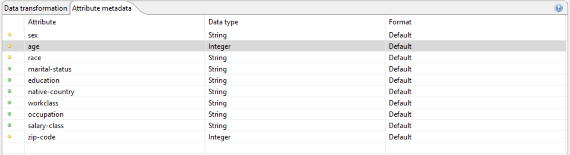
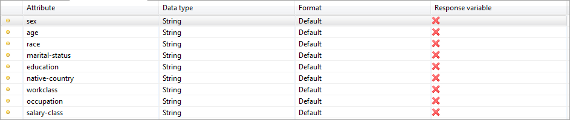
Some updates

diff --git a/help/v3.7.0/utility/quality.html b/help/v3.7.0/utility/quality.html
@@ -5,48 +5,21 @@
     <p>The view at the top, shows attribute-level quality, i.e. quality estimates that relate to individual
        quasi-identifiers. The view at the bottom, shows data-level quality, i.e. quality estimates for the
        overall set of quasi-identifiers.</p>
-    <img src="/help/v3.7.0/img/utility/quality.png" alt="Quality models" width="579" height="243" />
+    <img src="/help/v3.7.0/img/utility/quality.png" alt="Quality models" width="579" height="261" />
     <p>Note that not all quality measures are necessarily supported for all attributes or datasets. If a quality measure
        could not be evaluated for an attribute, the result is displayed as "N/A" in the upper table. As a consequence,
        this attribute has also been ignored when calculating data-level quality using the same model.</p>
     <p>The following attribute-level quality models are currently implemented:</p>
 	<ol>
-	    <li><em>Precision</em>: A model that captures the generalization intensity of attribute values.
-	                            For details see: Sweeney, L.: Achieving k-anonymity privacy protection using generalization and suppression
- 								J. Uncertain. Fuzz. Knowl. Sys. 10 (5), p. 571-588 (2002).</li>
-        <li><em>Granularity</em>: A model that captures the granularity of data. 
-                                  For details see: Iyengar, V.: Transforming data to satisfy privacy constraints. 
-                                  Proc. Int. Conf. Knowl. Disc. Data Mining, p. 279-288 (2002).</li>
-        <li><em>Non-Uniform Entropy</em>: A model that captures differences in the distributions of attribute values.
-        								  For details see: Prasser, F., Bild, R., Kuhn, K.A.
-        								  A Generic Method for Assessing the Quality of De-Identified Health Data.
-                                          Proc. Med. Inf. Europe (2016). and 
-                                          De Waal, A., Willenborg, L.: 
-                                          Information loss through global recoding and local suppression 
-                                          Netherlands Off. Stat., vol. 14, p. 17-20 (1999).</li>
+	    <li><em>Precision</em>: A model that captures the generalization intensity of attribute values. For details see: Sweeney, L.: Achieving k-anonymity privacy protection using generalization and suppression. J. Uncertain. Fuzz. Knowl. Sys. 10 (5), p. 571-588 (2002).</li>
+        <li><em>Granularity</em>: A model that captures the granularity of data. For details see: Iyengar, V.: Transforming data to satisfy privacy constraints. Proc. Int. Conf. Knowl. Disc. Data Mining, p. 279-288 (2002).</li>
+        <li><em>Non-Uniform Entropy</em>: A model that captures differences in the distributions of attribute values. For details see: Prasser, F., Bild, R., Kuhn, K.A.: A Generic Method for Assessing the Quality of De-Identified Health Data. Proc. Med. Inf. Europe (2016). and  De Waal, A., Willenborg, L.:  Information loss through global recoding and local suppression. Netherlands Off. Stat., vol. 14, p. 17-20 (1999).</li>
 	</ol>
 	<p>In addition, the following dataset-level quality models are available:</p>
 	<ol>
-	    <li><em>Average cell size</em>: A model that captures the average size of groups of indistinguishable records.
-	                                    For details see: LeFevre, K., DeWitt, D., Ramakrishnan, R.: 
-	                                    Mondrian multidimensional k-anonymity
-                                        Proc. Int. Conf. Data Engineering (2006).</li>
-        <li><em>Discernibility</em>: A model that captures the size of groups of indistinguishable records and introduces
-                                     a penalty for records which have been completely suppressed.
-                                     For details see: Bayardo, R., Agrawal, R.:
-                                     Data privacy through optimal k-anonymization
-                                     Proc. Int. Conf. Data Engineering, p. 217-228 (2005).</li>
-        <li><em>Ambiguity</em>: A model that captures ambiguity of records.
-        						For details see: Goldberger, Tassa. Efficient Anonymizations with Enhanced Utility.
-                                Trans. Data. Priv.</li>
-        <li><em>Sum of squared errors</em>: A model that interprets records as vectors and captures the sum of squared errors in 
-                                            groups of indistinguishable records.
-                                            For details see: Soria-Comas, J., et al.:
-                                            T-closeness through microaggregation: Strict privacy with enhanced utility preservation.
-                                            IEEE Trans. Knowl. Data Eng., 27(11), p. 3098-3110 (2015)
-                                            and
-                                            D. Sanchez, S. Martinez, and J. Domingo-Ferrer. Comment on unique in the shopping mall: On
-                                            the reidentifiability of credit card metadata. Science, 351(6279):1274-1274, 2016.</li>
-                                            
+	    <li><em>Average cell size</em>: A model that captures the average size of groups of indistinguishable records. For details see: LeFevre, K., DeWitt, D., Ramakrishnan, R.: Mondrian multidimensional k-anonymity. Proc. Int. Conf. Data Engineering (2006).</li>
+        <li><em>Discernibility</em>: A model that captures the size of groups of indistinguishable records and introduces a penalty for records which have been completely suppressed. For details see: Bayardo, R., Agrawal, R.: Data privacy through optimal k-anonymization. Proc. Int. Conf. Data Engineering, p. 217-228 (2005).</li>
+        <li><em>Ambiguity</em>: A model that captures ambiguity of records. For details see: Goldberger, Tassa.: Efficient Anonymizations with Enhanced Utility. Trans. Data. Priv.</li>
+        <li><em>Sum of squared errors</em>: A model that interprets records as vectors and captures the sum of squared errors in groups of indistinguishable records. For details see: Soria-Comas, J., et al.: T-closeness through microaggregation: Strict privacy with enhanced utility preservation. IEEE Trans. Knowl. Data Eng., 27(11), p. 3098-3110 (2015) and D. Sanchez, S. Martinez, and J. Domingo-Ferrer.: Comment on unique in the shopping mall: On the reidentifiability of credit card metadata. Science, 351(6279):1274-1274, 2016.</li>
 	    </ol>
 </div>

diff --git a/help/v3.7.0/configuration/attributes.html b/help/v3.7.0/configuration/attributes.html
@@ -15,26 +15,31 @@
         <li><em>Insensitive attributes</em> are not associated with any privacy risks. They will be kept unmodified.</li>
     </ol>
     <p>The assigned risk type is also indicated by a color coded bullet, next to the attribute name, in the input tab.</p>
-    <p>Transformation methods include generalization and micro-aggregation.  When generalization is selected, minimum and maximum applicable generalization levels can
-    be set.  When micro-aggregation is selected, the aggregation function and handling of missing data can be set.</p>
+    <p>Since version 3.7.0 there are also specific buttons that can be used to assign a certain attribute type to all attributes in the dataset.</p>
+    <img src="/help/v3.7.0/img/configuration/shortcut.png" alt="Shortcut" width="92" height="20" />
+    <p>Transformation methods include generalization and micro-aggregation. When generalization is selected, minimum and maximum applicable generalization levels can
+    be set. When micro-aggregation is selected, the aggregation function and handling of missing data can be set.</p>
     <p>When available, an attributes generalization hierarchy is displayed in tabular form, below the risk type and transformation inputs.  Attribute values in their most specific
     form are displayed in the leftmost column, with generalization levels increasing from left to right.  Right clicking in the hierarchy table displays an editor that can
     be used to create a simple hierarchy or perform row, column, and cell updates on an existing hierarchy.  To create a complex hierarchies, consider using the <em>Hierarchy Wizard</em>, 
     which can be launched from the Edit menu and application toolbar.</p>
     <h4>Metadata Tab</h4>
-    <p>The metadata tab is used to set the data type and format of an attribute.</p>
-    <img src="/help/v3.7.0/img/configuration/metadata.png" alt="Metadata" width="570" height="155" />
+    <p>The metadata tab can be used to set the data type and format of an attribute.</p>
+    <img src="/help/v3.7.0/img/configuration/metadata.png" alt="Metadata" width="570" height="120" />
     <p>Supported data types include:</p>
     <ol>
         <li>String: a generic sequence of characters. This is the default data type.</li>
         <li>Integer: a data type for numbers without a fractional component.</li>
         <li>Decimal: a data type for numbers with fractional component.</li>
         <li>Date/time: a data type for dates and time stamps.</li>
-        <li>Ordered string: this data type represents strings with ordinal scale.</li>
+        <li>Ordinal: this data type represents variables with an ordinal scale.</li>
     </ol>
     <p>Data type is set by right clicking on an attribute's row in the metadata table.  Format is prompted for automatically for applicable data types.
     Specifying a data type is optional, with String type used by default, but yields better results when creating generalization hierarchies and 
     visualizing data in the analysis perspective.</p>
-    <p>Information on decimal formats can be found at -(<em>http://docs.oracle.com/javase/7/docs/api/java/text/DecimalFormat.html</em>).</p>
-    <p>Information on date formats can be found at - (<em>http://docs.oracle.com/javase/7/docs/api/java/text/SimpleDateFormat.html</em>)</p>
+    <p>Moreover, variables can be specified as potential response variables in modeling efforts that will be performed using output data.
+    When combined with an appropriate data quality model, ARX will then try to minimize impacts on the structural relationships between
+    quasi-identifying variables and the specified response variables.</p>
+    <p>Information on supported decimal formats can be found here: <em>http://docs.oracle.com/javase/7/docs/api/java/text/DecimalFormat.html</em></p>
+    <p>Information on supported date formats can be found here: <em>http://docs.oracle.com/javase/7/docs/api/java/text/SimpleDateFormat.html</em></p>
 </div>

diff --git a/help/v3.7.0/configuration/generalization_hierarchies.html b/help/v3.7.0/configuration/generalization_hierarchies.html
@@ -67,6 +67,13 @@
         pre-defined meaningful ordering of the domain of a discrete variable. Subsequent generalizations of values from
         the domain can be labeled with user defined constants.</p>
     <img src="/help/v3.7.0/img/configuration/ordered_wizard.png" alt="Order-based wizard" width="408" height="278" />
+        <h5>Date-based hierarchies</h5>
+    <p>This wizard supports the creation of hierarchies for dates by specifying the granularity of output data at increasing
+       generalization levels. Please note that it is important to specify granularity levels that form an hierarchy (e.g.
+       day-of-week can typically not be followed by week-of-year, because the same day-of-week can be generalized
+       to different weeks of a year). When this constraint is violated, ARX will raise an error message during the
+       anonymization process.</p>
+    <img src="/help/v3.7.0/img/configuration/date_wizard.png" alt="Date-based wizard" width="408" height="280" />
     <p>In a final step, all wizards show a tabular representation of the resulting hierarchy for the current input data set. 
         Additionally, the number of groups on each level is computed. The abstract specification created in the process can be
         exported and imported to allow reuse for different data sets with similar attributes.</p>
